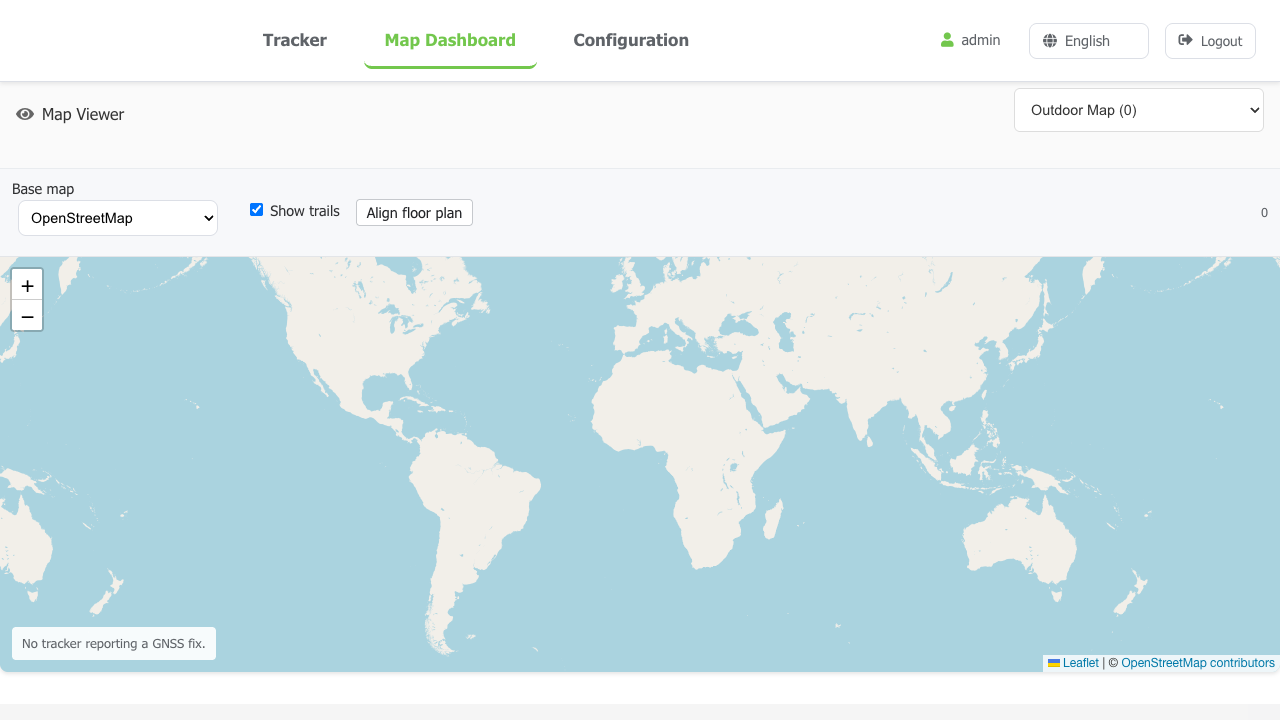
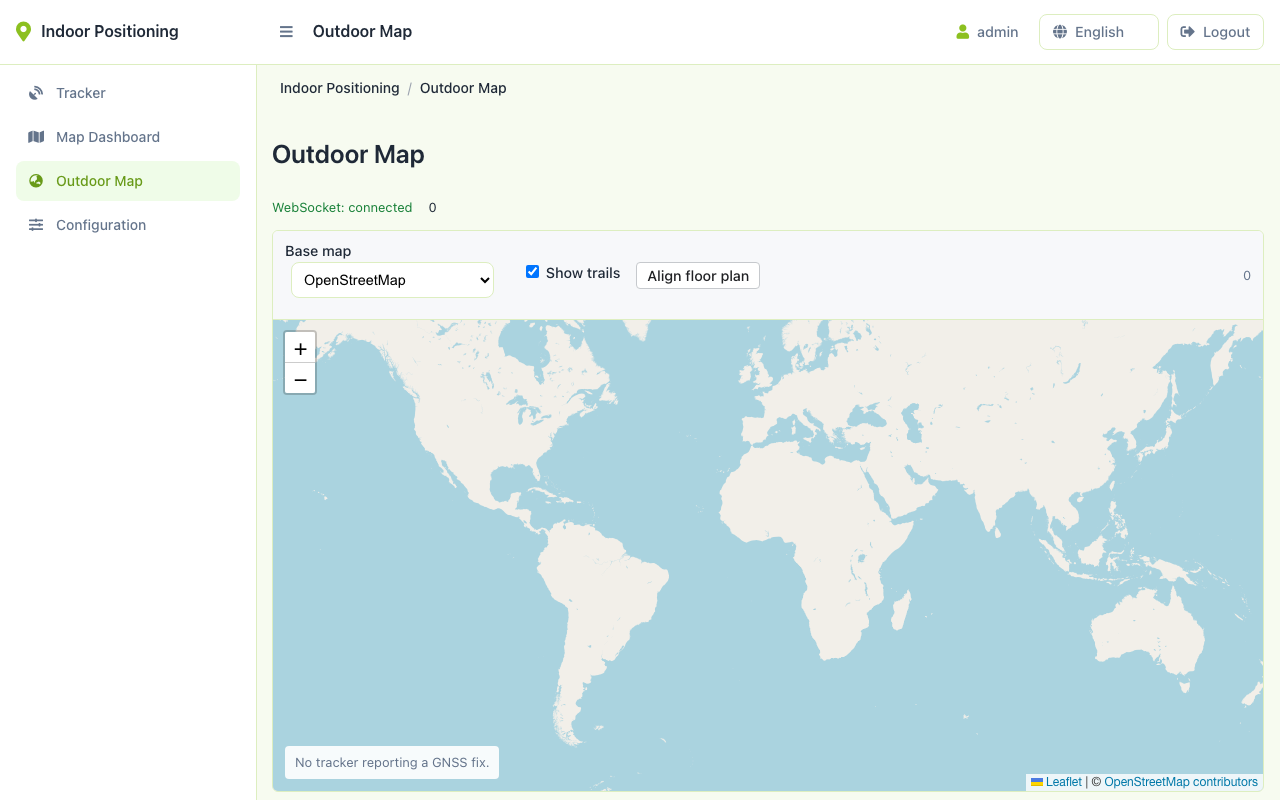
indoor_positioning: gallery 换成 ui-kit 改造后的界面截图
- login.png（新增）、app-preview.png、map-view.png、outdoor-map.png 换成
  solution-indoor-positioning 分支 feature/ui-kit 的 1280x800 截图，
  界面已套 sensecraft-ui-kit v0.1.2 的 token 与 AppShell 布局
- solution.yaml gallery 增加登录页条目，并在注释里注明这批图的来源与拍摄日期
- ATTRIBUTION.md 补这批截图的来源、拍摄参数与 OSM/ODbL 署名
- floorplan-registration.png 未重拍（配准流程截图，本次未复现该场景）
- 镜像标待重构建：本次只改静态展示资源，未动 assets/docker/docker-compose.yml
solutionctl validate: ✓ indoor_positioning_ble_lorawan valid

diff --git a/solutions/indoor_positioning_ble_lorawan/gallery/ATTRIBUTION.md b/solutions/indoor_positioning_ble_lorawan/gallery/ATTRIBUTION.md
@@ -2,9 +2,9 @@
 
 | File | Source | License / notes |
 |---|---|---|
+| `login.png`, `app-preview.png`, `map-view.png`, `outdoor-map.png` | Re-shot 2026-09-06 after the `sensecraft-ui-kit` v0.1.2 restyle (`solution-indoor-positioning`, branch `feature/ui-kit`, sources kept at `docs/ui/*-after.png`). Playwright / chrome-headless-shell, 1280x800 viewport, admin session against the local backend seeded from `db/app.db`. | First-party. `outdoor-map.png` basemap tiles are © OpenStreetMap contributors (ODbL), <https://www.openstreetmap.org/copyright>. |
 | `floorplan-registration.png` | Screenshot taken during the 2026-09-05 georeferencing run (`solution-indoor-positioning`, branch `feature/outdoor`, `evaluation/runs/2026-09-05-georef/raw/ui-04-registration-saved.png`). Headless Chrome, 1280x720 viewport. | First-party. The floor plan in the shot is a synthetic 1000x800 px test image, not a customer site. Basemap tiles are © OpenStreetMap contributors (ODbL), <https://www.openstreetmap.org/copyright>. |
-| `outdoor-map.png` | Screenshot from the same run (`.../raw/ui-01-outdoor-view.png`). | First-party. Basemap tiles are © OpenStreetMap contributors (ODbL), <https://www.openstreetmap.org/copyright>. |
-| `architecture.png`, `cover.png`, `app-preview.png`, `map-view.png`, `beacon.png`, `gateway.png`, `t1000.png`, `wiki-overview.jpg` | Carried over from the original package; Seeed first-party product/UI imagery. | First-party. |
+| `architecture.png`, `cover.png`, `beacon.png`, `gateway.png`, `t1000.png`, `wiki-overview.jpg` | Carried over from the original package; Seeed first-party product/UI imagery. | First-party. |
 
 ## Desensitisation
 
@@ -15,7 +15,7 @@ synthetic ones used by the replay traces.
 
 ## CDN
 
-TODO: these two screenshots are still referenced as repo-relative paths. Before
+TODO: these screenshots are still referenced as repo-relative paths. Before
 the hub landing page picks them up they have to be uploaded to
 `https://files.seeedstudio.com/Solution/landpage_asset/indoor_positioning_ble_lorawan/`
 with the usual `<name>-<hash>.png` filename, and `solution.yaml` switched to the
